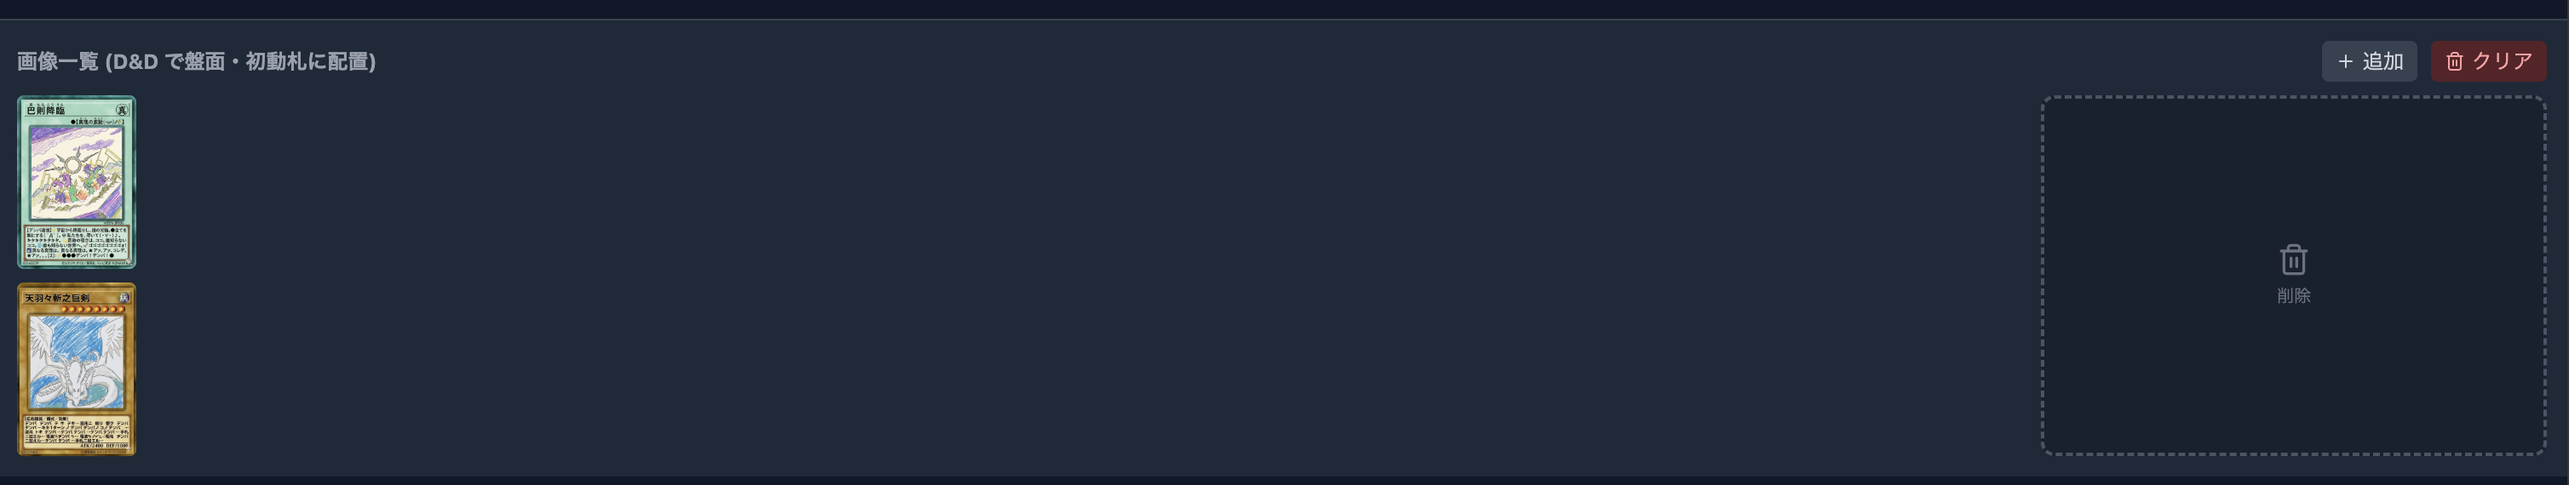
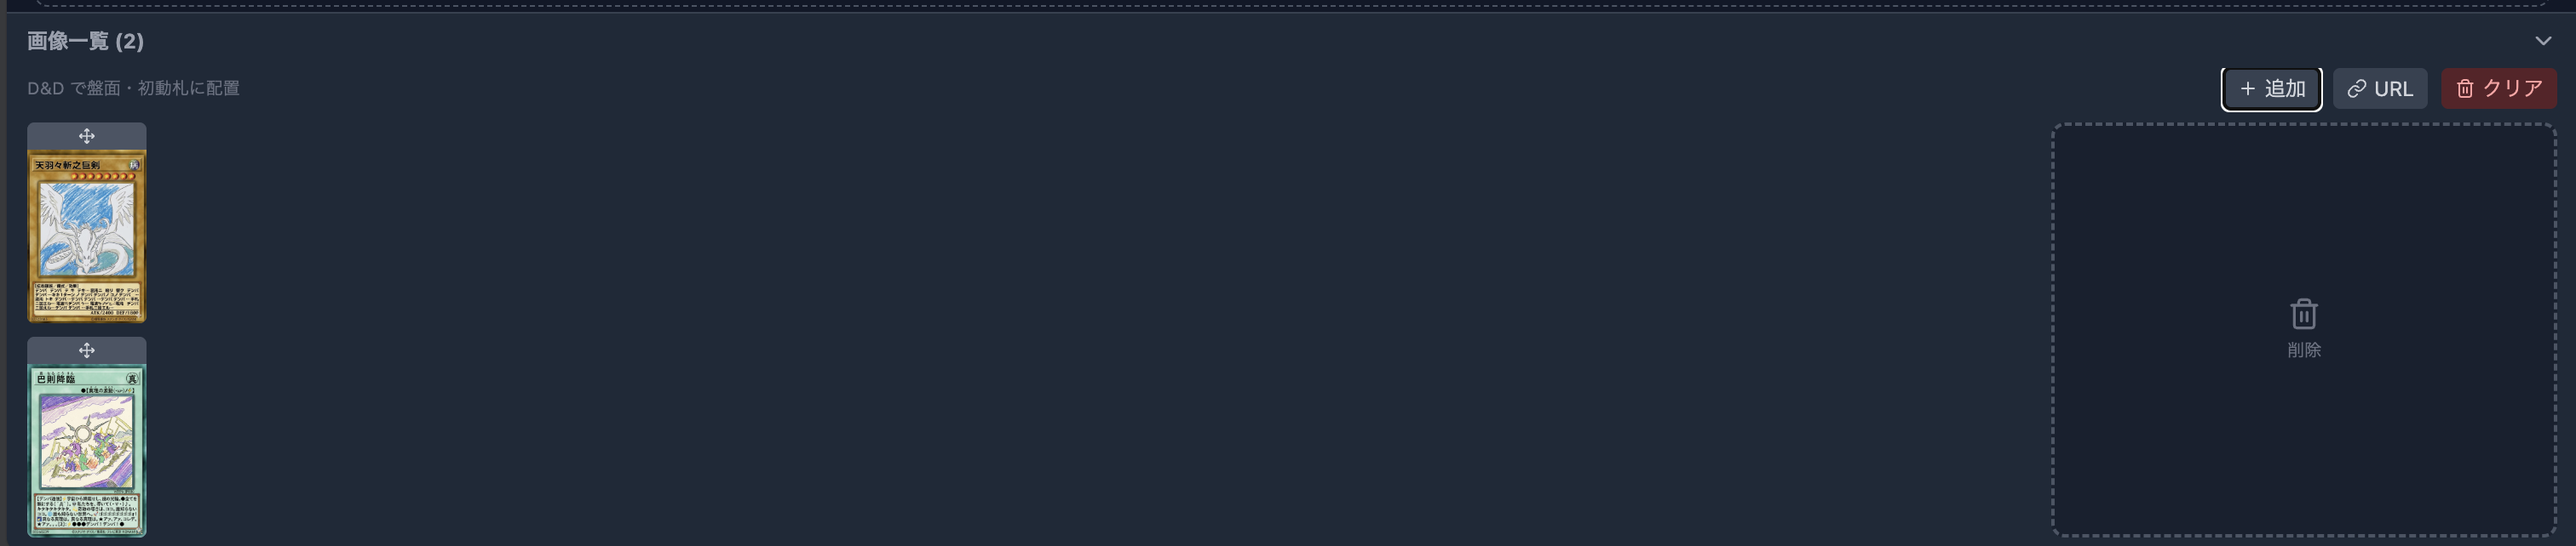
ドラッグ可能な画像コンポーネントの改善とチュートリアルステップのテキストを更新

Changed region(s): [[0.0, 0.0, 1.0, 1.0], [0.8103, 0.9246, 0.9973, 0.9842], [0.8727, 0.507, 0.9038, 0.6561]]

diff --git a/src/components/combo/ImageGallery.tsx b/src/components/combo/ImageGallery.tsx
@@ -17,11 +17,13 @@ function DraggableImage({
   url,
   thumbW,
   thumbH,
+  isMobile,
 }: {
   image: CachedImage;
   url: string | null;
   thumbW: number;
   thumbH: number;
+  isMobile: boolean;
 }) {
   const { attributes, listeners, setNodeRef, isDragging } = useDraggable({
     id: `gallery-${image.id}`,
@@ -30,13 +32,37 @@ function DraggableImage({
 
   const handleH = 16;
 
+  // PC: 画像全体をドラッグ可能
+  if (!isMobile) {
+    return (
+      <div
+        ref={setNodeRef}
+        {...attributes}
+        {...listeners}
+        style={{ width: thumbW, height: thumbH, touchAction: "none" }}
+        className={`flex-shrink-0 cursor-grab rounded bg-gray-700 ${
+          isDragging ? "opacity-50" : ""
+        }`}
+      >
+        {url && (
+          <img
+            src={url}
+            alt={image.fileName}
+            className="h-full w-full rounded object-cover"
+            draggable={false}
+          />
+        )}
+      </div>
+    );
+  }
+
+  // モバイル: ハンドルのみドラッグ可能、画像部分はスクロール可能
   return (
     <div
       ref={setNodeRef}
       style={{ width: thumbW, touchAction: "auto" }}
       className={`flex flex-shrink-0 flex-col ${isDragging ? "opacity-50" : ""}`}
     >
-      {/* ドラッグハンドル */}
       <div
         {...attributes}
         {...listeners}
@@ -45,7 +71,6 @@ function DraggableImage({
       >
         <FiMove size={10} className="text-gray-300" />
       </div>
-      {/* 画像 */}
       <div
         style={{ width: thumbW, height: thumbH }}
         className="rounded-b bg-gray-700"
@@ -245,6 +270,7 @@ export function ImageGallery({
                       url={getImageUrl(img.id)}
                       thumbW={thumbW}
                       thumbH={thumbH}
+                      isMobile={isMobile}
                     />
                   ))}
                 </div>
@@ -257,6 +283,7 @@ export function ImageGallery({
                         url={getImageUrl(img.id)}
                         thumbW={thumbW}
                         thumbH={thumbH}
+                        isMobile={isMobile}
                       />
                     ))}
                   </div>

diff --git a/src/components/tutorial/tutorialSteps.ts b/src/components/tutorial/tutorialSteps.ts
@@ -49,7 +49,15 @@ export const TUTORIAL_STEPS: Record<TutorialPageKey, TutorialStep[]> = {
     },
     {
       image: "tutorial/edit-8.png",
-      text: "画像一覧です。画像を盤面や初動札にドラッグ&ドロップして配置します。スマホでは長押しでドラッグ開始です。削除エリアにドロップすると画像を削除できます。",
+      text: "画像一覧です。画像上部のハンドルをドラッグして盤面や初動札に配置します。スマホではハンドルを長押しでドラッグ開始です。削除エリアにドロップすると画像を削除できます。",
+    },
+    {
+      image: "tutorial/edit-8.png",
+      text: "画像の追加方法は3つあります。「NEURON URL」からデッキの全カード画像を一括取得、「URL」ボタンから画像URLを指定して追加、「追加」ボタンからファイルを選択して追加できます。",
+    },
+    {
+      image: "tutorial/edit-8.png",
+      text: "注意: ファイルから追加した画像は共有URLでは共有できません。共有URLで共有するにはNEURON URLまたは画像URLから追加してください。ファイル画像を含む展開はZIPダウンロードで共有できます。",
     },
     {
       image: "tutorial/edit-9.png",

diff --git a/src/pages/ComboEditPage.tsx b/src/pages/ComboEditPage.tsx
@@ -444,7 +444,7 @@ export function ComboEditPage() {
       >
         <div className="flex flex-1 flex-col overflow-hidden">
           <div
-            className={`flex-1 space-y-4 overflow-y-auto p-3 sm:p-4 ${galleryOpen ? "pb-64 sm:pb-80" : "pb-20"}`}
+            className={`flex-1 space-y-4 overflow-y-auto p-3 sm:p-4 ${galleryOpen ? "pb-72 sm:pb-80" : "pb-20"}`}
           >
             {/* Title */}
             <input
